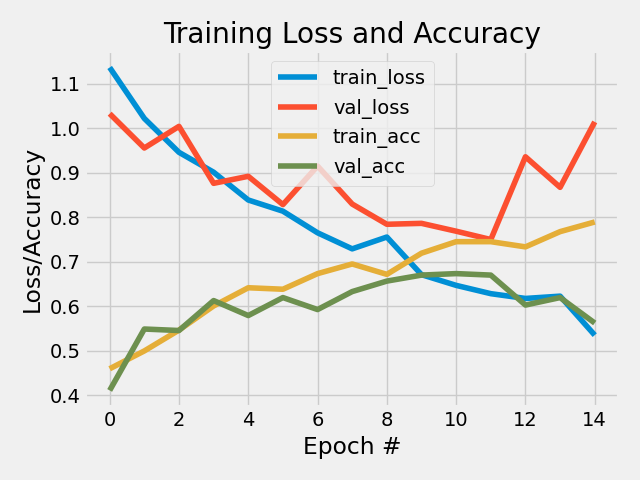
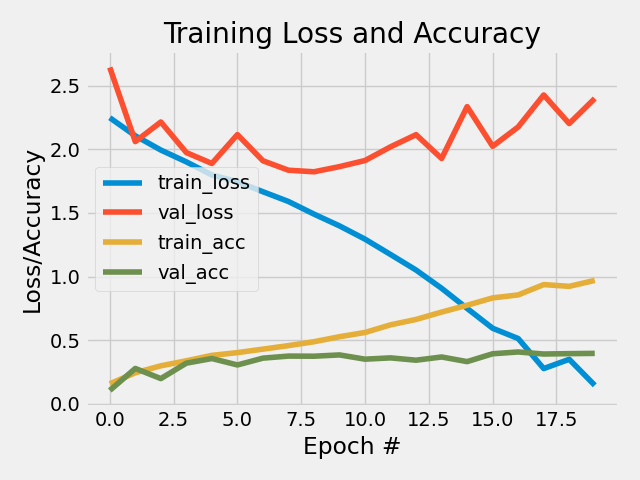
trained on all

diff --git a/src/cnn_impressionist.py b/src/cnn_impressionist.py
@@ -5,7 +5,7 @@ This script trains a convolutional neural network (CNN) with a LeNet architectur
 on impressionist paintings, with the aim of classifying the artist of a painting. 
 
 Input:
-  - -a, --artists: list of str, <list-of-artists> (optional, default: [Matisse Gauguin VanGogh]
+  - -a, --artists: list of str, <list-of-artists> (optional, default: [Matisse Gauguin VanGogh], ALL for all artists
   - -train, --train_data: str, <path-to-training-data> (optional, default: ../data/impressionist_subset/training/)
   - -test, --test_data: str, <path-to-test-data> (optional, default: ../data/impressionist_subset/validation/)
   - -e, --epochs: int, <number-of-epochs> (optional, default: 10)
@@ -63,31 +63,32 @@ def main():
                     required = False, default = 50)
     # Parse arguments
     args = vars(ap.parse_args())
-    names = args["artists"]
+    artists = args["artists"]
     train_directory = args["train_directory"]
     test_directory = args["test_directory"]
     epochs = args["epochs"]
     batch_size = args["batch_size"]
-    
-    # Create output directory
-    output_directory = os.path.join("..", "out")
-    if not os.path.exists(output_directory):
-        os.mkdir(output_directory)
         
+    # Get names, if ALL, use all names, otherwise only those specified
+    if artists == ["ALL"]:
+        label_names = os.listdir(os.path.join(train_directory))
+    else:
+        label_names = artists
+    
     # Print message
-    print(f"\n[INFO] Initialising classifcation of paintings from {names}.")
+    print(f"\n[INFO] Initialising classifcation of paintings from {label_names}.")
     
     # --- PREPARE DATA ---
     
     # Get minimum dimension of smallest image, used to resize all images accordingly
-    img_dim = get_min_dim(train_directory, test_directory, names)
+    img_dim = get_min_dim(train_directory, test_directory, label_names)
     
     # Print message
     print(f"\n[INFO] Preparing data: all images will be resized to {img_dim}x{img_dim}.")
     
     # Prepare data, returns resized, normalised array of images, and binarised labels
-    X_train, y_train = preprare_Xy(train_directory, img_dim, names)
-    X_test, y_test = preprare_Xy(test_directory, img_dim, names)
+    X_train, y_train = preprare_Xy(train_directory, img_dim, label_names)
+    X_test, y_test = preprare_Xy(test_directory, img_dim, label_names)
    
     # --- CNN WITH LENET ARCHITECTURE ---
     
@@ -95,7 +96,7 @@ def main():
     print(f"\n[INFO] Training CNN with LeNet Architecture with {epochs} epochs and a batch size of {batch_size}.")
     
     # Get number of classes
-    n_classes = len(names)
+    n_labels = len(label_names)
     
     # Define CNN: LeNet architecture
     model = Sequential()
@@ -116,7 +117,7 @@ def main():
     model.add(Activation("relu"))
 
     # Set 4: Output layer, with softmax classification, to predict 10 classes (10 artists)
-    model.add(Dense(n_classes))
+    model.add(Dense(n_labels))
     model.add(Activation("softmax"))
 
     # Compile CNN: using categorigical corrsentropy and stochastic gradient descent
@@ -129,9 +130,14 @@ def main():
     
     # Evaluate CNN: generate predictions and compare to true labels
     predictions = model.predict(X_test, batch_size)
-    report = classification_report(y_test.argmax(axis=1), predictions.argmax(axis=1), target_names = names)
+    report = classification_report(y_test.argmax(axis=1), predictions.argmax(axis=1), target_names = label_names)
     
     # --- OUTPUT ---
+    
+    # Create output directory
+    output_directory = os.path.join("..", "out")
+    if not os.path.exists(output_directory):
+        os.mkdir(output_directory)
     
     # Save model summary, model history and classification report
     save_model_info(model, output_directory, "model_summary.txt", "model_plot.png")

diff --git a/utils/cnn_utils.py b/utils/cnn_utils.py
@@ -89,7 +89,8 @@ def preprare_Xy(directory, img_dim, names):
             y.append(name)
 
     # Normalize images
-    X_norm = (X.astype("float") / 255.)
+    #X_norm = (X.astype("float") / 255.)
+    X_norm = (X - X.min())/(X.max() - X.min())
     
     # Binarize labels
     lb = LabelBinarizer()

diff --git a/README.md b/README.md
@@ -1,28 +1,29 @@
-# 5: CNN on Cultural Image Data
+# CNN on Cultural Image Data
 
 [Description](#description) | [Methods](#methods) | [Repository Structure](#repository-structure) | [Usage](#usage) | [Results and Disucssion](#results-and-discussion)
 
 ## Description
 
-> This project relates to Assignment 5: Multi-class Classification of Cultural Image Data of the course Visual Analytics.
+> This project relates to Assignment 5: Multi-class Classification of Cultural Image Data
+of the course Visual Analytics.
 
-The aim of this project was to classify complex, cultural image data. Specifically, a dataset of impressionist paintings was used to investigate whether it is possible to classify paintings by their artist. This may be relevant to e.g. sort a large collection of images or to predict the artist of an image where the artist is unknown. In this project, I chose to only investigate paintings of three artists, namely *Matisse, Gaugin and VanGogh*. 
+The aim of this project was to classify complex, cultural image data. Specifically, a dataset of impressionist paintings was used to investigate whether it is possible to classify paintings by their artist. This may be relevant to e.g. sort a large collection of images or to predict the artist of an image where the artist is unknown. 
 
 For the multi-class classification task, a Convolutional Neural Network (CNN) with a LeNet Architecture was build, trained and evaluated. Convolutional Neural Networks are especially useful for visual analytics, as they can take into account the three channels of coloured images, and identify more complex features (through convolutional kernels), while reducing dimensionality of the feature space (through pooling layers).  
  
 
 ## Methods
 ### Data and Preprocessing
-The data used to train and evaluate the model was extracted from [Kaggle](https://www.kaggle.com/delayedkarma/impressionist-classifier-data). This original dataset contains 400 training and 100 test images for 10 artists (Pisarro, Hassam, Monet, Degas, Matisse, Singer-Sargent, Cezanne, Gauguin, Renoir, van Gogh). To reduce processing time, I chose to only investigate 3 of these artists in this project, namely Matisse, Gaugin, Van Gogh. 
-To train the CNN, it was required to resize all images to be of same size. To preserve as much as possible, the smallest dimension of the smallest image was found and used to resize all images to a square of this dimension. For the subset of data used for this project, this meant that all images were resized to be of size 277x277. Further, images were normalised. The corresponding labels of the images (artists) were extracted, and binarised.
+The data used to train and evaluate the model was extracted from [Kaggle](https://www.kaggle.com/delayedkarma/impressionist-classifier-data). This dataset contains 400 training and 100 test images for 10 artists (Pisarro, Hassam, Monet, Degas, Matisse, Singer-Sargent, Cezanne, Gauguin, Renoir, van Gogh). 
+To train the CNN, it was required to resize all images to be of same size. To preserve as much as possible, the smallest dimension of the smallest image was found and used to resize all images to a square of this dimension. For the subset of data used for this project, this meant that all images were resized to be of size 266x266. Further, images were scaled using min-max-regularisation. The corresponding labels of the images (artists) were extracted, and binarised.
  
 ### Convolutional Neural Network with LeNet Architecture
-A Convolutional Neural Network with a LeNet Architecture consists of an input layer, followed by 2 sets of **Convolutional Layer - Activation Layer - Pooling layer**, a flattening layer, two fully connected layers and finally a softmax classifier to predict the artist. The model was trained on a batch size of 50, once over 10 epochs and once over 15 epochs. As optimiser, stochastic gradient descent with a learning rate of 0.01 was used. The [model summary](https://github.com/nicole-dwenger/cdsvisual-cnn-impressionist/blob/master/out/model_summary.txt) and a [visualisation of the model](https://github.com/nicole-dwenger/cdsvisual-cnn-impressionist/blob/master/out/model_plot.png) used for this project can be found in the `out/` directory in this repository.
+A Convolutional Neural Network with a LeNet Architecture consists of an input layer, followed by 2 sets of **Convolutional Layer - Activation Layer - Pooling layer**, a flattening layer, two fully connected layers and finally a softmax classifier to predict the artist. The model was trained on a batch size of 50, once over 10 epochs and once over 20 epochs. As optimiser, stochastic gradient descent with a learning rate of 0.01 was used. The [model summary](https://github.com/nicole-dwenger/cdsvisual-cnn-impressionist/blob/master/out/model_summary.txt) and a [visualisation of the model](https://github.com/nicole-dwenger/cdsvisual-cnn-impressionist/blob/master/out/model_plot.png) used for this project can be found in the `out/` directory in this repository.
 
 
 ## Repository Structure
 
-Note, that the `data/` directory only contains empty folders. The data is too large to be stored on GitHub. The directory only serve to illustrate how the data should be stored to run the script. Directions for downloading the data are provided below. 
+Note, that the `data/` directory only contains empty folders. The data is too large to be stored on GitHub. The directories only serve to illustrate how the data should be stored to run the script. Directions for downloading the data are provided below. 
 
 ```
 |-- data/                        # Directory containing data (see note above)
@@ -35,12 +36,12 @@ Note, that the `data/` directory only contains empty folders. The data is too la
         |-- validation/          # Example validation data directory, structure identical to training
 
 |-- out/                         # Output directory, with example output
-    |-- model_summary.txt        # Summary of model architecture
-    |-- model_plot.png           # Visualisation of model architecture
+    |-- model_summary.txt        # Summary of model architecture     
+    |-- model_plot.png           # Visualisation of model architecture        
     |-- model_history.png        # Plot of training history of model (over 10 epochs)
-    |-- model_history_1.png      # Plot of training history of model (over 15 epochs)
+    |-- model_history_1.png      # Plot of training history of model (over 20 epochs)
     |-- model_report.txt         # Classification report (over 10 epochs)
-    |-- model_report_1.txt.      # Classification report (over 15 epochs)
+    |-- model_report_1.txt.      # Classification report (over 20 epochs)
 
 |-- src/                         # Directory containing main script for classification
     |-- cnn_impressionist.py     # Main script for preparing data, training and evaluating CNN
@@ -76,7 +77,7 @@ source venv_cnn/bin/activate
 ```
 
 ### 2. Data
-The data was too large to be stored in this repository. If you wish to reproduce the results of this project, I recommend downloading the *training* and *validation* folders of the impressionist paintings dataset from [kaggle](https://www.kaggle.com/delayedkarma/impressionist-classifier-data), and saving these in `data/impressionist`. Optimally, the structure should be identical to the structure illustrated in the repository structure displayed above. When running the script, you can adjust the `-train` and `-test` parameters to represent the directories containing the training and validation data, i.e. i.e. in the repository structure above this would be `../data/impressionist_example/training/` and `../data/impressionist_example/validation/`. For this project, I have trained the model on the entire set of 400 training and 100 testing images for the three chosen artists, i.e. Matisse, Gauguin, VanGogh. 
+The data was too large to be stored in this repository. If you wish to reproduce the results of this project, I recommend downloading the *training* and *validation* folders of the impressionist paintings dataset from [kaggle](https://www.kaggle.com/delayedkarma/impressionist-classifier-data), and saving these in `data/impressionist`. Optimally, the structure should be identical to the structure illustrated in the repository structure displayed above. When running the script, you can adjust the `-train` and `-test` parameters to represent the directories containing the training and validation data, i.e., in the repository structure above this would be `../data/impressionist_example/training/` and `../data/impressionist_example/validation/`. For this project, I have trained the model on the entire set of 400 training and 100 testing images for all 10 artists. 
 
 
 ### 3. Running the Script 
@@ -95,9 +96,9 @@ python3 cnn_impressionist.py -train data/training/ -test data/validation/ -a Mon
 ```
 
 __Parameters__:
-- `-a, --artists`: *list of str, seperated with space, optional, default:* `Matisse Gaugin VanGogh`\
+- `-a, --artists`: *list of str, seperated with space, optional, default:* `ALL`\
    List of artist names for which the paintings should be included in the classifier. Should be at least 3, and should their 
-   corresponding train and test images should be stored in a directory named by the artist in `training` and `validation` directories.
+   corresponding train and test images should be stored in a directory named by the artist in `training/` and `validation/` directories. Use `ALL` to take all artists for which directories are in `training/` (and should also be in `validation/`.
    
 - `-train, --train_directory`: *str, optional, default:* `../data/impressionist/training/`\
    Path to directory containing training data. In this directory, images should be stored in subdirectories, one for each artist.
@@ -126,18 +127,17 @@ __Output__ saved in `out/`:
 
 ## Results and Discussion
 
-Outputs of the model can be found in the `out/` directory of this repository. The [classification report](https://github.com/nicole-dwenger/cdsvisual-cnn-impressionist/blob/master/out/model_report.txt) of the model trained over 10 epochs indicated a weighted F1 score of 0.59, while the [classification report](https://github.com/nicole-dwenger/cdsvisual-cnn-impressionist/blob/master/out/model_report_1.txt) of the model trained over 15 epochs indicated a weighted F1 score of 0.51, when classifying paintings of Matisse, Gauguin and VanGogh. 
+Outputs of the model can be found in the `out/` directory of this repository. The [classification report](https://github.com/nicole-dwenger/cdsvisual-cnn-impressionist/blob/master/out/model_report.txt) of the model trained over 10 epochs indicated a weighted F1 score of 0.35, while the [classification report](https://github.com/nicole-dwenger/cdsvisual-cnn-impressionist/blob/master/out/model_report_1.txt) of the model trained over 20 epochs indicated a weighted F1 score of 0.38, when classifying paintings of the 10 artists.
 
-Looking at the model history, it seems that the model trained over 15 epochs (displayed on the left) started overfitting on the training data, as the accuracy decreases for the test data, while it keeps increasing for the training data. Thus, in early stopping after 10 epochs (displayed on the right) could prevent this overfitting, and might thus lead to a higher F1 score for the model trained over 10 epochs. However, there still seems to be some variablity and noise in the validation accuracy and loss. 
+Looking at the model history, it seems that the model trained over 20 epochs (displayed on the right) started overfitting on the training data, as the accuracy does not increase for the test data, while it keeps increasing for the training data. Similarly, the loss for the test data actually starts increasing from epoch 10, while it decreases for the training data. This is likely the reason why the model did not improve much when running it for 20 epochs. Thus, in early stopping after 10 epochs (displayed on the left) could prevent this overfitting. Other measures, such as drop out layers could be also be considered to further prevent overfitting.
 
- 15 epochs | 10 epochs
+
+ 10 epochs | 15 epochs
 :-------------------------:|:-------------------------:
-![](https://github.com/nicole-dwenger/cdsvisual-cnn-impressionist/blob/master/out/model_history_1.png)  |  ![](https://github.com/nicole-dwenger/cdsvisual-cnn-impressionist/blob/master/out/model_history.png)
+![](https://github.com/nicole-dwenger/cdsvisual-cnn-impressionist/blob/master/out/model_history.png)  |  ![](https://github.com/nicole-dwenger/cdsvisual-cnn-impressionist/blob/master/out/model_history_1.png)
 
 
-The recall scores for the model trained over 10 epochs indicate, a higher recall score for Van Gogh (0.87) compared to Matisse (0.45) and Gaugin (0.46). This suggests, that the model was better at finding all paintings, which were actually Van Gogh paintings, compared to the other two. However, it seems that this came at the cost of precision, as Van Gogh has a lower precision score (0.49) than the reamining to (Matisse: 0.75, Gauguin: 0.77), indicating that out of all the paintings predicted to be van Gogh only 49% were actually from Van Gogh.
-
-Rather than using training a CNN from scratch, it could improve classification to use transfer learning, meaning pretrained models, such as VGG16 to classify these images. The pretrained models have been trained to extract relevant features from a large collection of images. Thus, the CNN (as in this project) does not need to be trained from scratch, but only the last fully connected layers would need to be re-trained to classify the artists. 
+Rather than using training a CNN from scratch, it could improve classification to use transfer learning, meaning pretrained models, such as VGG16 to classify these images. The pretrained models have been trained to extract relevant features from a large collection of images. Thus, the CNN (as in this project) does not need to be trained from scratch, but only the last fully connected layers would need to be re-trained to classify the artists. The aim of this project, however was to also indicate how a CNN can be build and trained from scratch. 
 
 
 
